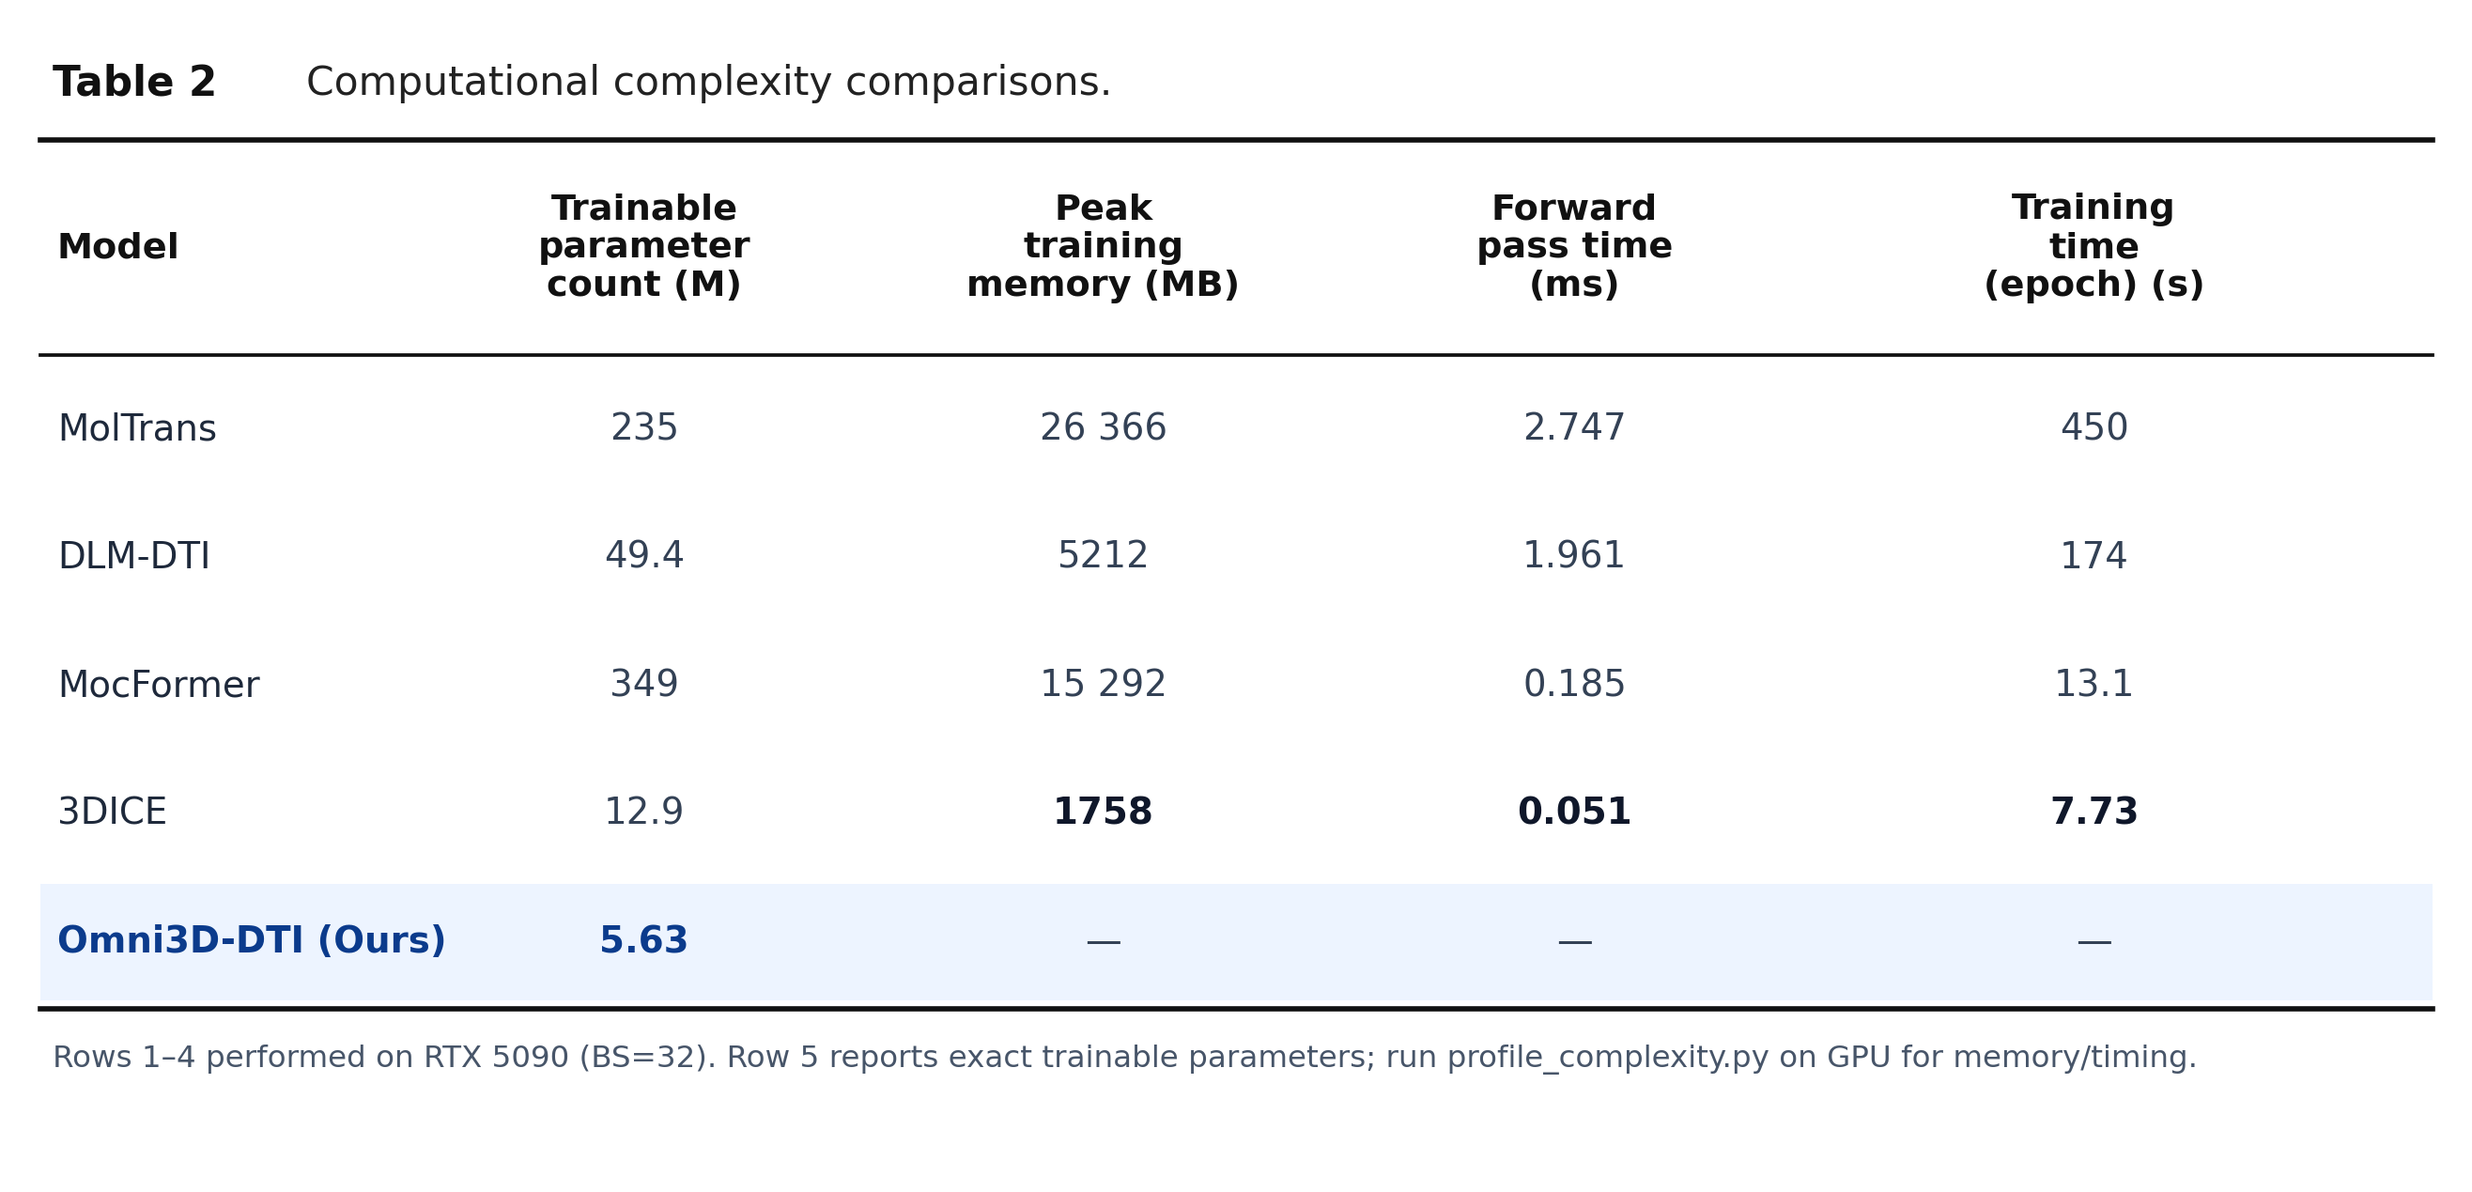
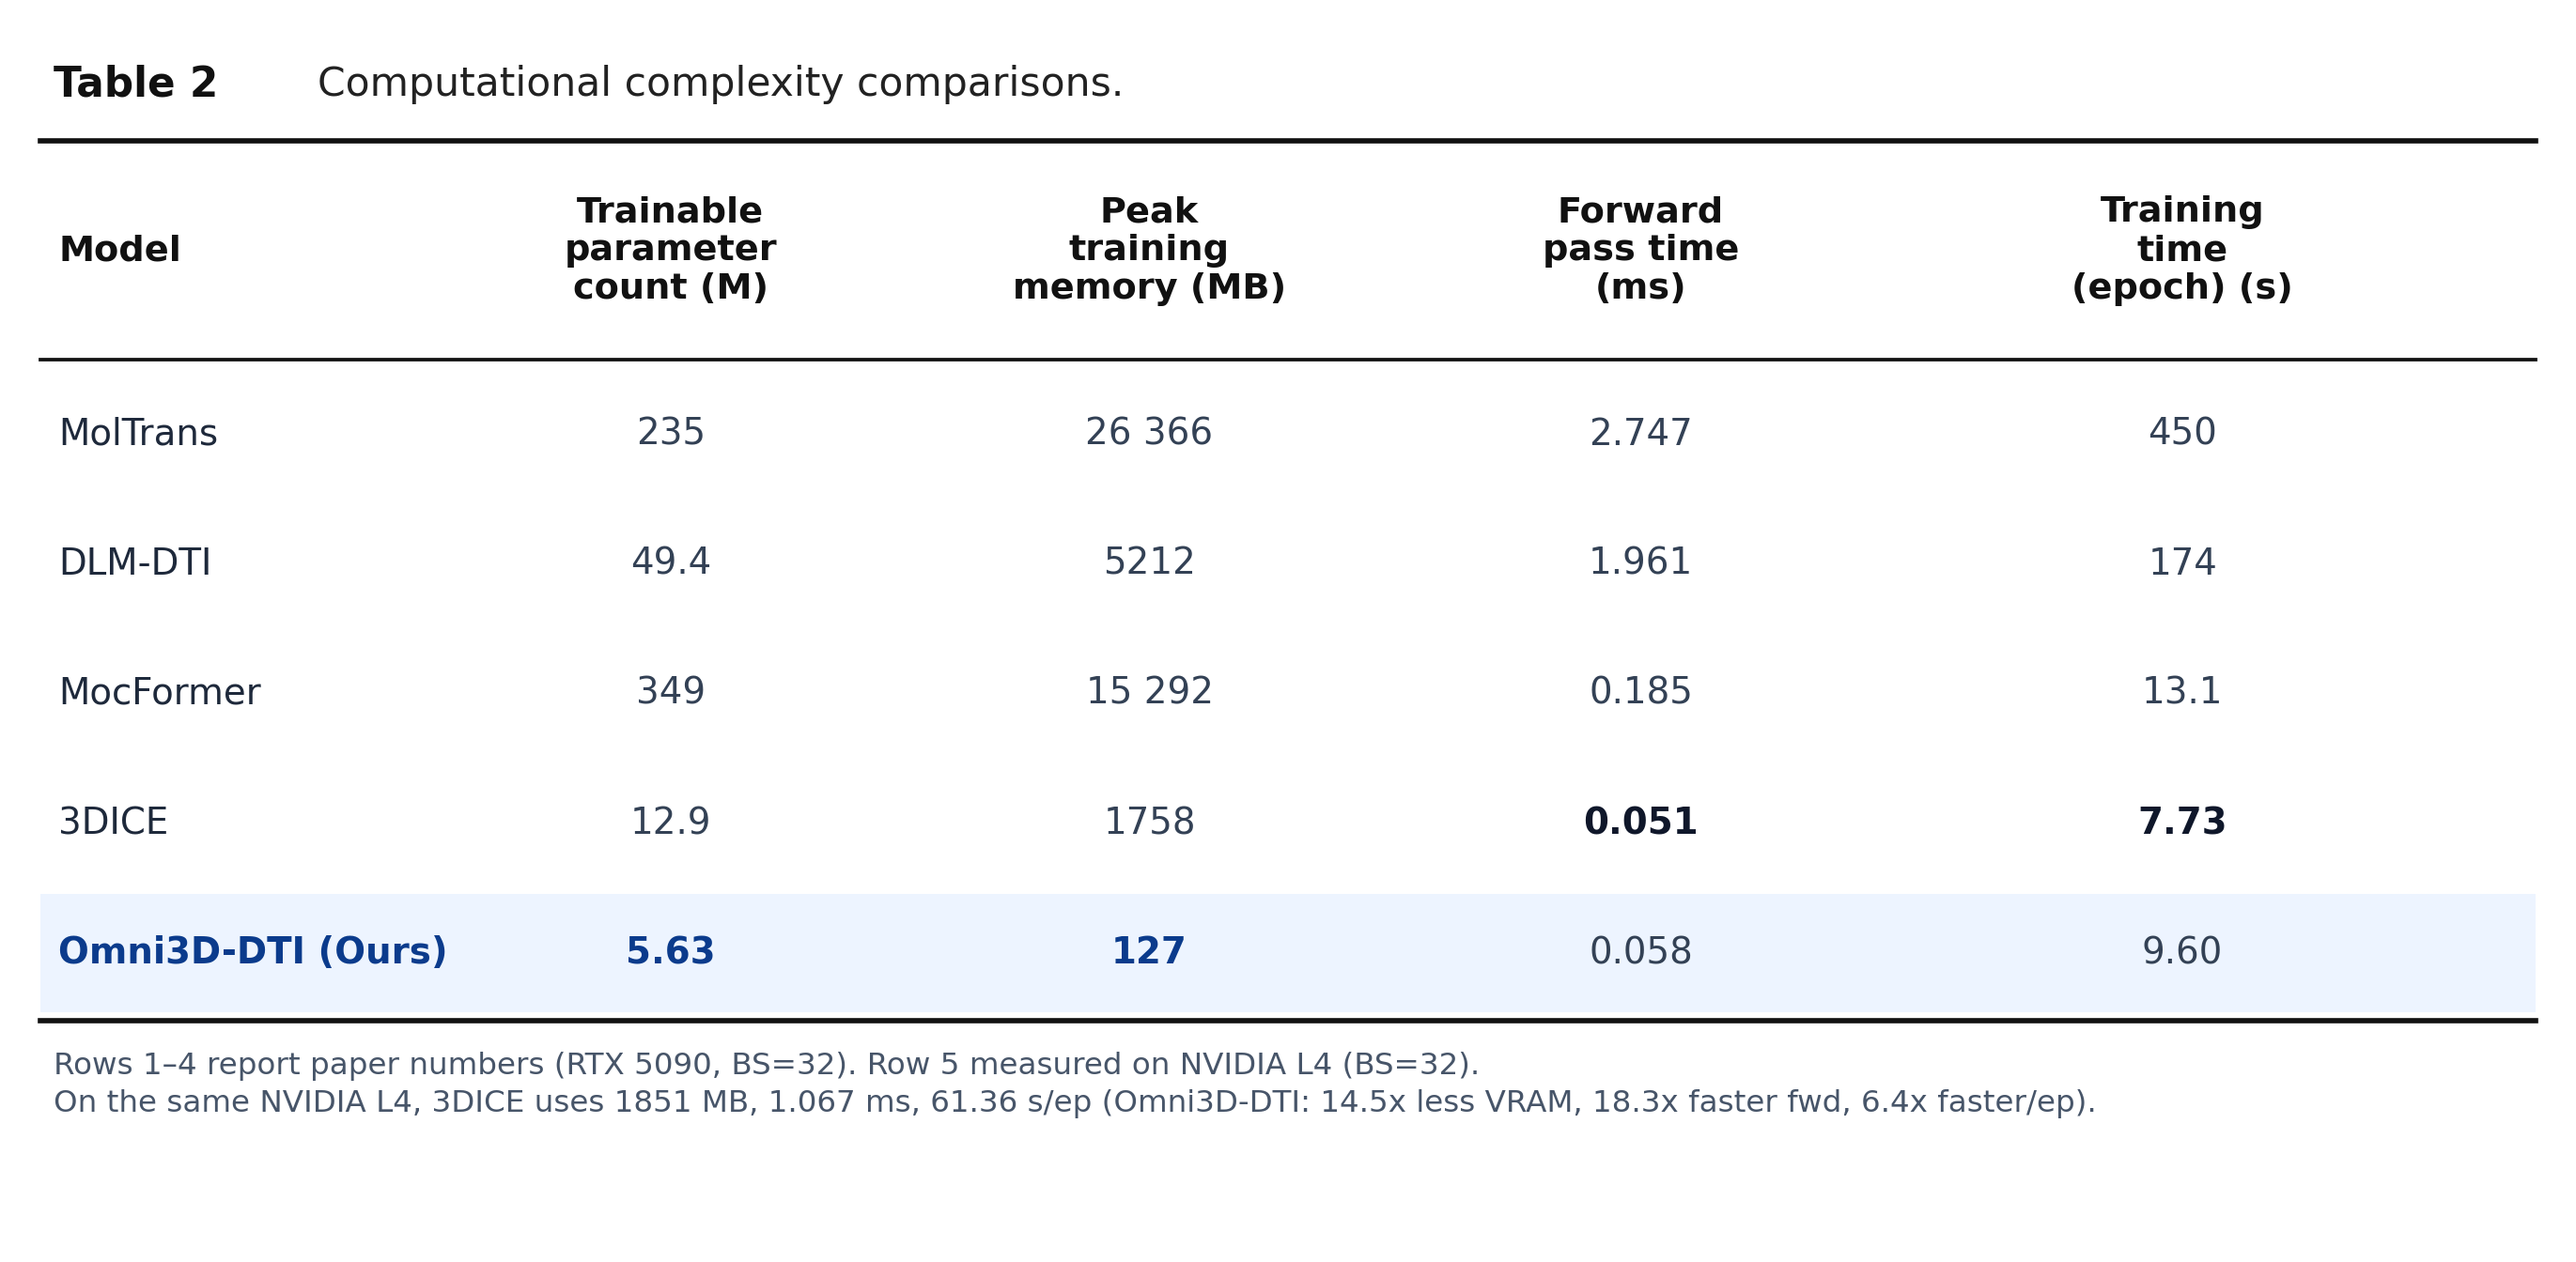
Update Table 2 complexity figure with measured NVIDIA L4 benchmarks vs 3DICE

diff --git a/bench/omni/complexity_table_renderer.py b/bench/omni/complexity_table_renderer.py
@@ -36,13 +36,18 @@ class ComplexityTableRenderer:
 
     @staticmethod
     def _footnote(payload: Optional[Dict[str, Any]]) -> str:
-        """Build accurate hardware footnote distinguishing paper RTX 5090 vs measured GPU."""
+        """Build two-line hardware footnote comparing Omni3D-DTI against same-GPU 3DICE."""
         recs = {r["model"]: r for r in payload.get("results", [])} if payload else {}
         ours, dice_gpu = recs.get("Omni3D_DTI"), recs.get("3DICE")
         if ours and dice_gpu:
-            return (f"Rows 1–4 from paper (RTX 5090, BS=32). Row 5 measured on {ours['gpu']} (BS=32); "
-                    f"on same {dice_gpu['gpu']}, 3DICE uses {dice_gpu['peak_mem_mb']:.0f} MB, "
-                    f"{dice_gpu['forward_ms']:.3f} ms/sample, {dice_gpu['epoch_s']:.2f} s/epoch.")
+            mem_x = dice_gpu["peak_mem_mb"] / max(ours["peak_mem_mb"], 1e-6)
+            fwd_x = dice_gpu["forward_ms"] / max(ours["forward_ms"], 1e-6)
+            ep_x = dice_gpu["epoch_s"] / max(ours["epoch_s"], 1e-6)
+            return (
+                f"Rows 1–4 report paper numbers (RTX 5090, BS=32). Row 5 measured on {ours['gpu']} (BS=32).\n"
+                f"On the same {dice_gpu['gpu']}, 3DICE uses {dice_gpu['peak_mem_mb']:.0f} MB, {dice_gpu['forward_ms']:.3f} ms, {dice_gpu['epoch_s']:.2f} s/ep "
+                f"(Omni3D-DTI: {mem_x:.1f}x less VRAM, {fwd_x:.1f}x faster fwd, {ep_x:.1f}x faster/ep)."
+            )
         return "Rows 1–4 performed on RTX 5090 (BS=32). Row 5 reports exact trainable parameters; run profile_complexity.py on GPU for memory/timing."
 
     @classmethod
@@ -52,11 +57,11 @@ class ComplexityTableRenderer:
         minima = [min(r["vals"][c] for r in rows if not math.isnan(r["vals"][c])) for c in range(4)]
 
         plt.rcParams["font.family"] = "DejaVu Sans"
-        fig, ax = plt.subplots(figsize=(9.2, 4.1), dpi=300)
+        fig, ax = plt.subplots(figsize=(9.2, 4.35), dpi=300)
         fig.patch.set_facecolor("#FFFFFF")
         ax.set_facecolor("#FFFFFF")
         ax.set_xlim(0.0, 1.0)
-        ax.set_ylim(-0.35, 7.8)
+        ax.set_ylim(-0.75, 7.8)
         ax.axis("off")
 
         ax.text(0.010, 7.40, "Table 2  ", fontsize=10.5, fontweight="bold", va="center", color="#111111")
@@ -85,7 +90,7 @@ class ComplexityTableRenderer:
 
         y_bot = cur_y + 0.44
         ax.plot([0.005, 0.995], [y_bot, y_bot], color="#111111", lw=1.35)
-        ax.text(0.010, y_bot - 0.25, cls._footnote(complexity_payload), fontsize=7.8, color="#475569", ha="left", va="top")
+        ax.text(0.010, y_bot - 0.22, cls._footnote(complexity_payload), fontsize=7.8, color="#475569", ha="left", va="top", linespacing=1.35)
 
         plt.tight_layout(pad=0.25)
         fig.savefig(out_path, dpi=300, bbox_inches="tight", facecolor="#FFFFFF")
